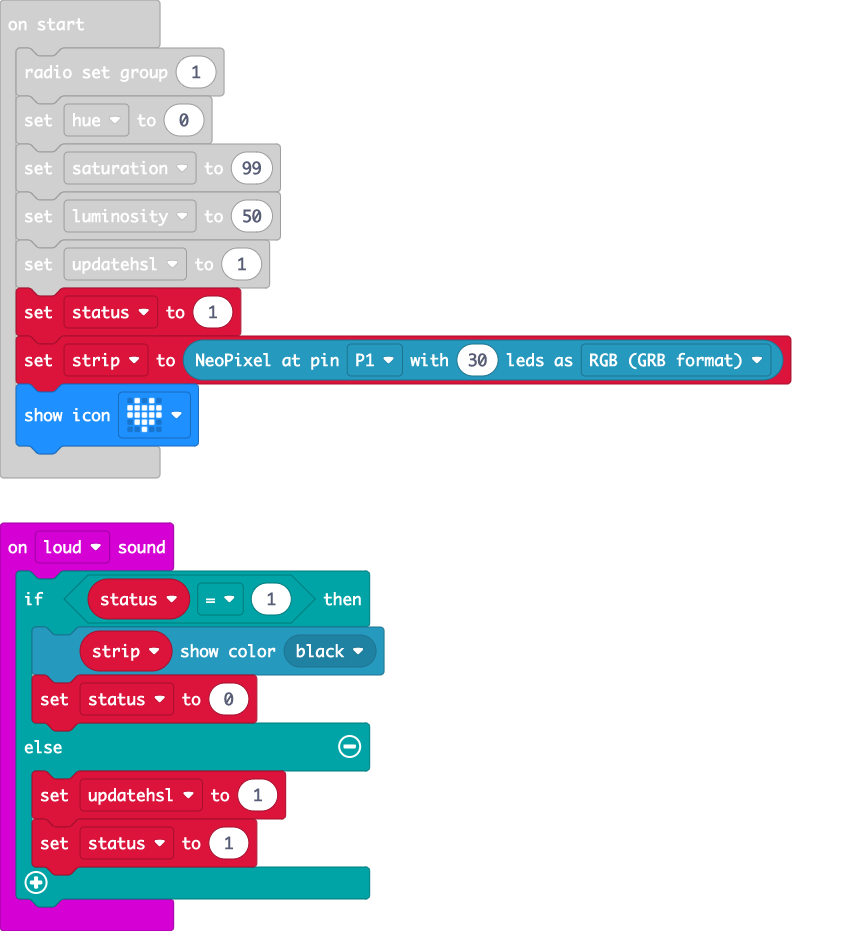
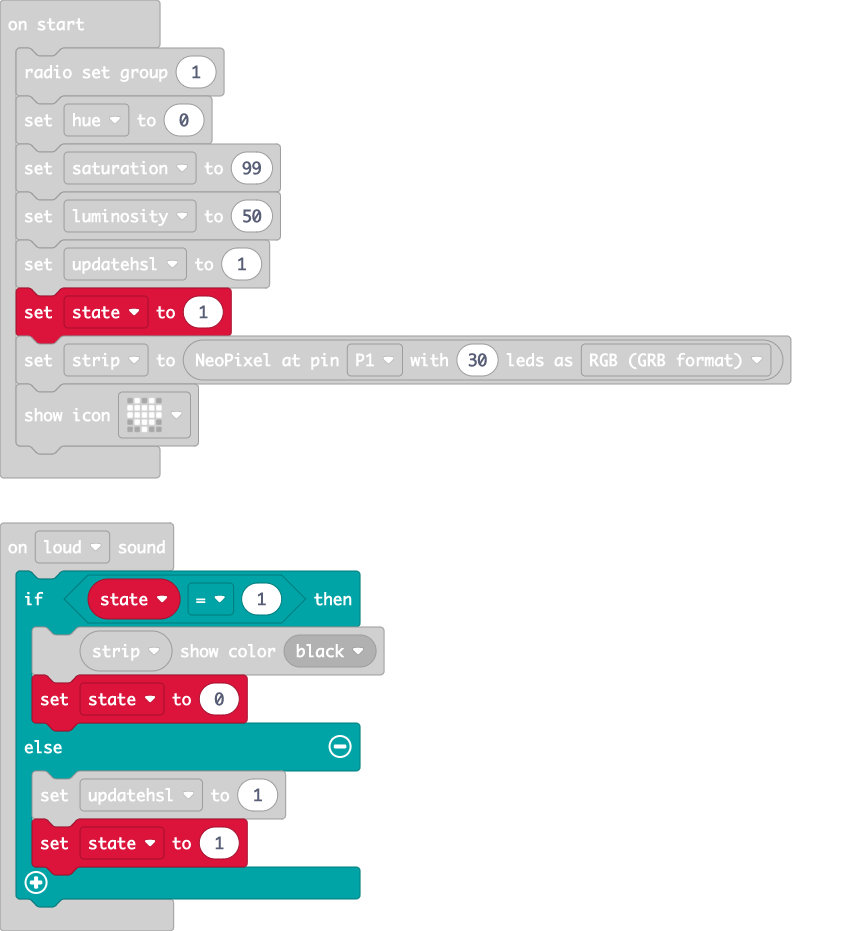
Update main.blocks, main.ts

diff --git a/main.ts b/main.ts
@@ -7,12 +7,12 @@ input.onButtonPressed(Button.A, function () {
     updatehsl = 1
 })
 input.onSound(DetectedSound.Loud, function () {
-    if (status == 1) {
+    if (state == 1) {
         strip.showColor(neopixel.colors(NeoPixelColors.Black))
-        status = 0
+        state = 0
     } else {
         updatehsl = 1
-        status = 1
+        state = 1
     }
 })
 input.onButtonPressed(Button.B, function () {
@@ -36,7 +36,7 @@ radio.onReceivedValue(function (name, value) {
     }
 })
 let strip: neopixel.Strip = null
-let status = 0
+let state = 0
 let updatehsl = 0
 let luminosity = 0
 let saturation = 0
@@ -46,7 +46,7 @@ hue = 0
 saturation = 99
 luminosity = 50
 updatehsl = 1
-status = 1
+state = 1
 strip = neopixel.create(DigitalPin.P1, 30, NeoPixelMode.RGB)
 basic.showIcon(IconNames.Heart)
 basic.forever(function () {
